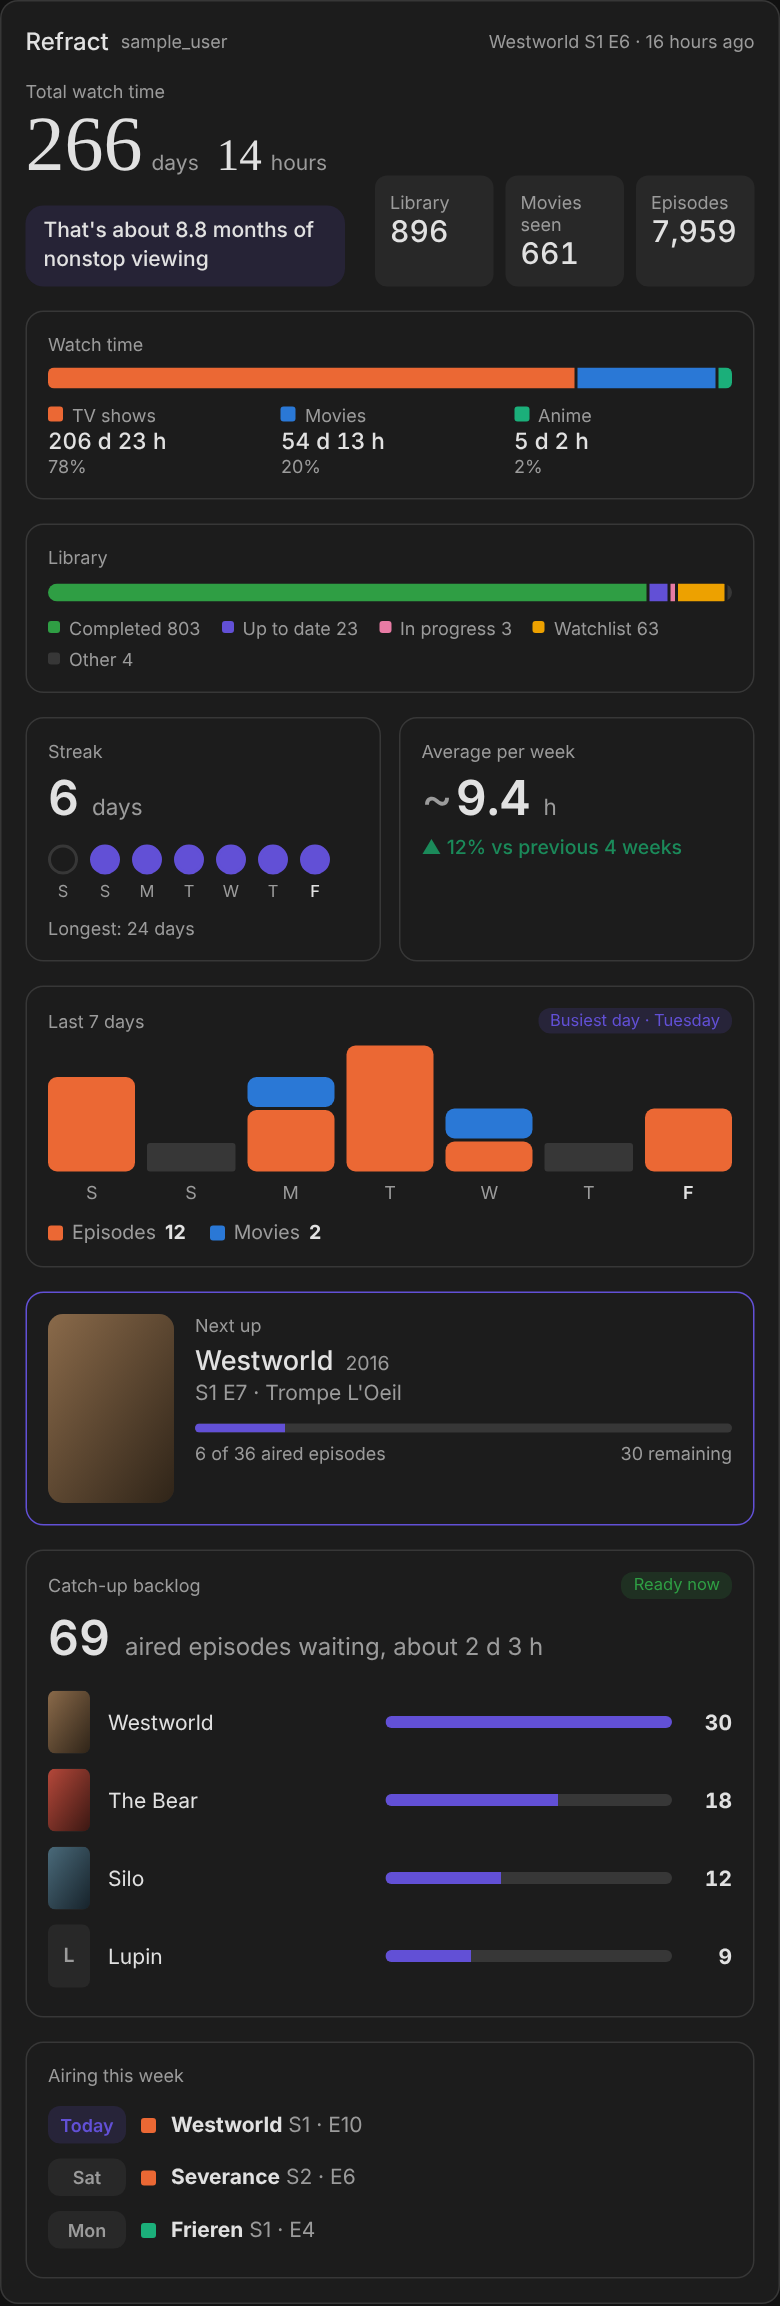
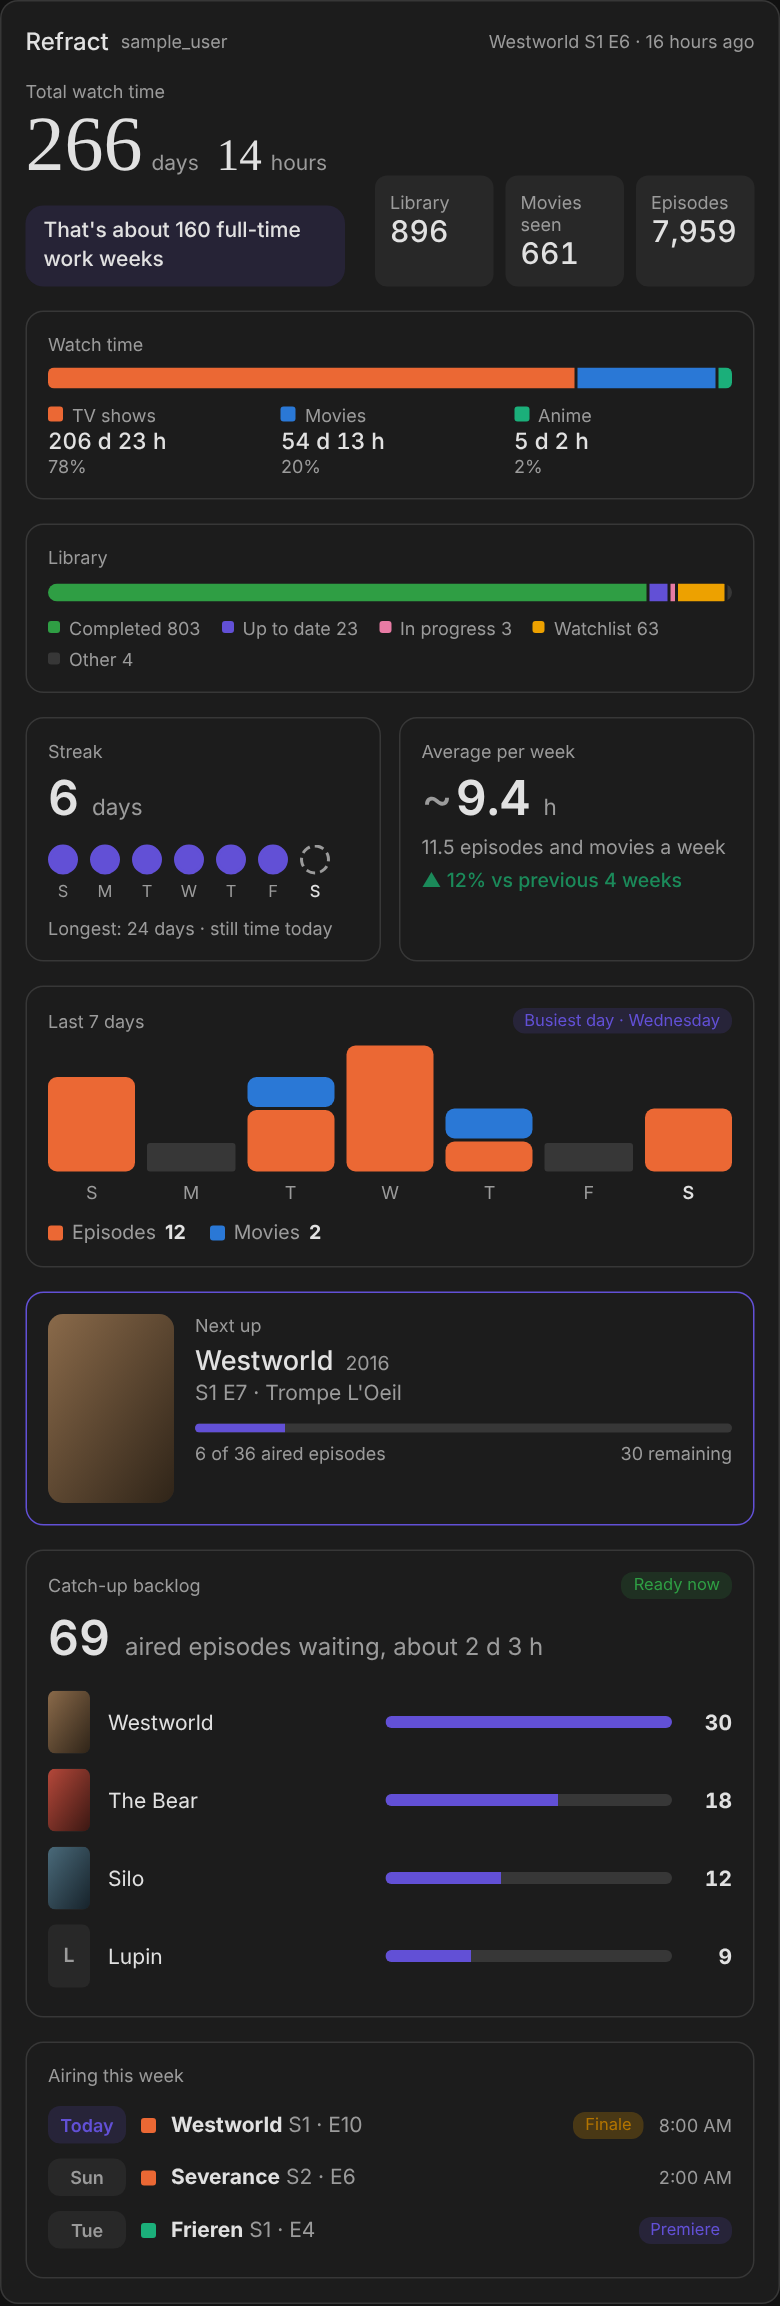
Add files via upload

diff --git a/frontend/test/card.test.ts b/frontend/test/card.test.ts
@@ -113,7 +113,26 @@ test("the old streak options are accepted and ignored", async () => {
 test("average per week shows an estimated figure and the trend", async () => {
   const t = text(await mount({}));
   assert.match(t, /Average per week ~2\.5 h/);
+  assert.match(t, /2\.8 episodes and movies a week/);
   assert.match(t, /▲ 12% vs previous 4 weeks/);
+});
+
+test("average per week says '1 episode or movie' for exactly one", async () => {
+  const hass = makeHass({
+    states: { ...baseStates, [`sensor.${PREFIX}average_per_week`]: { entity_id: "a", state: "0.9", attributes: { items_per_week: 1, change_percent: null, estimated: true } } },
+  });
+  const t = text(await mount({}, hass));
+  assert.match(t, /1 episode or movie a week/);
+  assert.doesNotMatch(t, /vs previous/, "no percentage without a fair baseline");
+});
+
+test("the catch-up estimate under a day shows hours only", async () => {
+  const hass = makeHass({
+    states: { ...baseStates, [`sensor.${PREFIX}catch_up`]: { entity_id: "c", state: "33", attributes: { show_count: 1, estimated_minutes: 1260, shows: [{ title: "Westworld", remaining: 33, is_anime: false }] } } },
+  });
+  const t = text(await mount({}, hass));
+  assert.match(t, /33 aired episodes waiting, about 21 h/);
+  assert.doesNotMatch(t, /0 d/);
 });
 
 test("average per week falls back to viewings when hours are unknown", async () => {
@@ -186,6 +205,10 @@ test("airing this week: weekday chips, today highlighted, anime colored", async 
   const rows = [...el.shadowRoot!.querySelectorAll(".a-row")];
   assert.equal(rows.length, 2);
   assert.match(rows[0].textContent!, /Today\s+Westworld S1 · E10/);
+  assert.match(rows[0].querySelector(".badge.warn")!.textContent!, /Finale/);
+  assert.match(rows[0].querySelector(".a-time")!.textContent!, /8:00/, "exact air time, in the user's clock format");
+  assert.match(rows[1].querySelector(".badge.accent")!.textContent!, /Premiere/);
+  assert.equal(rows[1].querySelector(".a-time"), null, "no time when Refract doesn't know it");
   assert.ok(rows[0].querySelector(".a-day.today"));
   assert.match(rows[1].textContent!, /Frieren S1 · E3/);
   assert.match(rows[1].querySelector<HTMLElement>(".swatch")!.getAttribute("style")!, /--c-anime/);

diff --git a/frontend/test/format.test.ts b/frontend/test/format.test.ts
@@ -1,6 +1,6 @@
 import assert from "node:assert/strict";
 import { test } from "node:test";
-import { durationParts, durationText, funStatText, shares, streakDots } from "../src/format";
+import { durationParts, durationText, funStatText, shares, streakDots, timeOfDay } from "../src/format";
 
 test("duration: 383,908 minutes is 266 d 14 h", () => {
   assert.equal(durationText(383908), "266 d 14 h");
@@ -17,7 +17,10 @@ test("duration: hours format and auto format", () => {
   assert.equal(durationText(298044, "hours"), "4,967 h");
   assert.equal(durationText(200, "auto"), "3 h 20 min");
   assert.equal(durationText(45, "auto"), "45 min");
-  assert.equal(durationText(200, "days_hours"), "0 d 3 h");
+  assert.equal(durationText(200, "days_hours"), "3 h", "no zero days");
+  assert.equal(durationText(1260, "days_hours"), "21 h");
+  assert.equal(durationText(45, "days_hours"), "45 min");
+  assert.equal(durationText(1440, "days_hours"), "1 d 0 h", "a whole day keeps both parts");
 });
 
 test("duration: singular units", () => {
@@ -83,4 +86,11 @@ test("streak dots: time zone decides which day a watch belongs to", () => {
   assert.equal(streakDots({ ...args, timeZone: "UTC" }).stillTimeToday, true);
   const nicosia = streakDots({ ...args, timeZone: "Asia/Nicosia" }); // 01:30 on Nov 4 local
   assert.equal(nicosia.todayFilled, true);
+});
+
+test("timeOfDay follows the time zone and the 12/24 hour choice", () => {
+  assert.equal(timeOfDay("2026-11-10T08:00:00.000Z", "en", "UTC", false), "08:00");
+  assert.equal(timeOfDay("2026-11-10T08:00:00.000Z", "en", "Asia/Nicosia", false), "10:00");
+  assert.match(timeOfDay("2026-11-10T08:00:00.000Z", "en", "UTC", true)!, /^8:00\s?AM$/);
+  assert.equal(timeOfDay("not a date", "en"), undefined);
 });

diff --git a/frontend/src/format.ts b/frontend/src/format.ts
@@ -53,7 +53,10 @@ export function durationParts(minutes: number, format: DurationFormat = "days_ho
     if (hours >= 1) return [part(hours, "h", lang), part(mins, "min", lang)];
     return [part(mins, "min", lang)];
   }
-  return [part(days, "d", lang), part(hours, "h", lang)];
+  // days + hours, but nothing is padded with a zero: "21 h" rather than "0 d 21 h"
+  if (days >= 1) return [part(days, "d", lang), part(hours, "h", lang)];
+  if (hours >= 1) return [part(hours, "h", lang)];
+  return [part(mins, "min", lang)];
 }
 
 /** Compact text such as "206 d 23 h". */
@@ -195,4 +198,15 @@ export function isoDay(date: Date, timeZone?: string): string {
 /** Weekday name of a plain `YYYY-MM-DD` date, in the user's language. */
 export function weekdayName(iso: string, lang: string, style: "narrow" | "short" | "long"): string {
   return new Intl.DateTimeFormat(lang, { weekday: style, timeZone: "UTC" }).format(new Date(`${iso}T00:00:00Z`));
+}
+
+/** Clock time of an instant, in the user's time zone and 12/24 h preference ("08:00" / "8:00 AM"). */
+export function timeOfDay(iso: string, lang: string, timeZone?: string, hour12?: boolean): string | undefined {
+  const date = new Date(iso);
+  if (Number.isNaN(date.getTime())) return undefined;
+  try {
+    return new Intl.DateTimeFormat(lang, { hour: "numeric", minute: "2-digit", timeZone, hour12 }).format(date);
+  } catch {
+    return undefined;
+  }
 }

diff --git a/frontend/demo/index.html b/frontend/demo/index.html
@@ -94,7 +94,7 @@
   const art = { Westworld: poster("#8a6a4a", "#2f2418"), "The Bear": poster("#b5483a", "#3a1712"), Silo: poster("#4a6a7a", "#16222a"), Lupin: null };
   const days7 = [[3, 0], [0, 0], [2, 1], [4, 0], [1, 1], [0, 0], [2, 0]].map(([ep, mv], i) => ({ date: day(i - 6), episodes: ep, movies: mv }));
   const backlog = [["Westworld", 30, 63247], ["The Bear", 18, 136315], ["Silo", 12, 125988], ["Lupin", 9, 96677]].map(([title, remaining, tmdb_id]) => ({ title, year: 2020, is_anime: false, remaining, tmdb_id, poster_url: null }));
-  const airing = [[0, "Westworld", 1, 10, false], [1, "Severance", 2, 6, false], [3, "Frieren", 1, 4, true]].map(([d, show, season, number, is_anime]) => ({ date: day(d), show, season, number, title: null, is_anime }));
+  const airing = [[0, "Westworld", 1, 10, false, false, true, "08:00"], [1, "Severance", 2, 6, false, false, false, "02:00"], [3, "Frieren", 1, 4, true, true, false, null]].map(([d, show, season, number, is_anime, premiere, finale, time]) => ({ date: day(d), show, season, number, title: null, is_anime, premiere, finale, air_at: time ? `${day(d)}T${time}:00.000Z` : null }));
   const withArt = (on) => ({
     next: on ? { ...westworld, poster_url: art.Westworld } : westworld,
     catchup: backlog.map((b) => ({ ...b, poster_url: on ? art[b.title] : null })),

diff --git a/frontend/src/model.ts b/frontend/src/model.ts
@@ -62,6 +62,10 @@ export interface AiringItem {
   number?: number;
   title?: string;
   isAnime: boolean;
+  premiere: boolean;
+  finale: boolean;
+  /** ISO instant, only when Refract knows the exact time. */
+  airAt?: string;
 }
 
 export interface Model {
@@ -239,7 +243,7 @@ export function buildModel(hass: HomeAssistant, discovery: Discovery, config: Re
     airing = raw
       .map((r: any): AiringItem | undefined =>
         typeof r?.show === "string" && /^\d{4}-\d{2}-\d{2}$/.test(String(r?.date))
-          ? { date: r.date, show: r.show, season: num(r.season), number: num(r.number), title: typeof r.title === "string" ? r.title : undefined, isAnime: !!r.is_anime }
+          ? { date: r.date, show: r.show, season: num(r.season), number: num(r.number), title: typeof r.title === "string" ? r.title : undefined, isAnime: !!r.is_anime, premiere: !!r.premiere, finale: !!r.finale, airAt: typeof r.air_at === "string" && r.air_at ? r.air_at : undefined }
           : undefined,
       )
       .filter((x): x is AiringItem => !!x);

diff --git a/frontend/test/fixture.ts b/frontend/test/fixture.ts
@@ -63,8 +63,8 @@ export const catchUpShows = [
 ];
 
 export const airingEpisodes = [
-  { date: dayOffset(0), show: "Westworld", season: 1, number: 10, title: "The Bicameral Mind", is_anime: false },
-  { date: dayOffset(2), show: "Frieren", season: 1, number: 3, title: null, is_anime: true },
+  { date: dayOffset(0), show: "Westworld", season: 1, number: 10, title: "The Bicameral Mind", is_anime: false, premiere: false, finale: true, air_at: `${dayOffset(0)}T08:00:00.000Z` },
+  { date: dayOffset(2), show: "Frieren", season: 1, number: 3, title: null, is_anime: true, premiere: true, finale: false, air_at: null },
 ];
 
 export const states: Record<string, HassEntity> = Object.fromEntries([

diff --git a/frontend/src/styles.ts b/frontend/src/styles.ts
@@ -177,6 +177,10 @@ export const cardStyles = css`
     color: var(--secondary-text-color);
     margin-right: 2px;
   }
+  .avg-items {
+    font-size: 13px;
+    color: var(--secondary-text-color);
+  }
   .trend {
     font-size: 13px;
     font-weight: 500;
@@ -590,7 +594,17 @@ export const cardStyles = css`
     background: color-mix(in srgb, var(--c-accent) 16%, transparent);
     color: var(--c-accent);
   }
+  .a-time {
+    flex: none;
+    font-size: 12px;
+    color: var(--secondary-text-color);
+    font-variant-numeric: tabular-nums;
+  }
+  .a-row .badge {
+    flex: none;
+  }
   .a-name {
+    flex: 1;
     min-width: 0;
     overflow: hidden;
     text-overflow: ellipsis;

diff --git a/frontend/test/discovery-model.test.ts b/frontend/test/discovery-model.test.ts
@@ -97,6 +97,9 @@ test("model: new sections", () => {
   assert.deepEqual(m.catchup?.shows.map((x) => [x.title, x.remaining]), [["Westworld", 30], ["Lupin", 9]]);
   assert.equal(m.airing?.length, 2);
   assert.equal(m.airing?.[1].isAnime, true);
+  assert.deepEqual([m.airing?.[0].finale, m.airing?.[0].premiere, m.airing?.[1].premiere], [true, false, true]);
+  assert.match(m.airing?.[0].airAt ?? "", /T08:00:00/);
+  assert.equal(m.airing?.[1].airAt, undefined);
   assert.equal(m.hasPosters, false);
 });
 

diff --git a/frontend/src/types.ts b/frontend/src/types.ts
@@ -25,7 +25,7 @@ export interface HomeAssistant {
   entities?: Record<string, EntityRegistryDisplayEntry>;
   devices?: Record<string, DeviceRegistryEntry>;
   services?: Record<string, Record<string, unknown>>;
-  locale?: { language: string; time_zone?: string };
+  locale?: { language: string; time_zone?: string; time_format?: string };
   config?: { time_zone?: string };
   language?: string;
   callService(

diff --git a/frontend/src/localize.ts b/frontend/src/localize.ts
@@ -47,6 +47,8 @@ const en: Dict = {
   "avg.vs_previous": "vs previous 4 weeks",
   "avg.estimated": "Estimated from your average runtime",
   "avg.items_unit": "a week",
+  "avg.items_line": "{n} episodes and movies a week",
+  "avg.items_line_one": "1 episode or movie a week",
   "days7.title": "Last 7 days",
   "days7.busiest": "Busiest day · {day}",
   "days7.episodes": "Episodes",

diff --git a/custom_components/refract/analytics.py b/custom_components/refract/analytics.py
@@ -102,6 +102,11 @@ def busiest_day(days: list[dict[str, Any]]) -> dict[str, Any] | None:
     return best
 
 
+# The change needs at least this many viewings in the earlier period, otherwise a quiet
+# stretch makes any normal month look like a huge jump.
+MIN_BASELINE_ITEMS = 4
+
+
 def weekly_stats(
     episodes: Iterable[tuple[date, int | None]],
     movies: Iterable[date],
@@ -113,7 +118,8 @@ def weekly_stats(
     """Viewings (and hours, when runtimes are known) per week over the last `window` days.
 
     Episodes use Refract's runtime when it has one, otherwise `episode_default`; movies
-    use `movie_default`. The change compares against the `window` days before that.
+    use `movie_default`. The change compares against the `window` days before that, and is
+    left out when that earlier period has fewer than MIN_BASELINE_ITEMS viewings.
     """
     eps, movs = list(episodes), list(movies)
 
@@ -143,12 +149,12 @@ def weekly_stats(
     minutes_now, minutes_before = minutes(now), minutes(before)
     weeks = window / 7
 
-    if minutes_now is not None and minutes_before:
-        change: int | None = round((minutes_now - minutes_before) / minutes_before * 100)
-    elif items_before:
-        change = round((items_now - items_before) / items_before * 100)
-    else:
-        change = None
+    change: int | None = None
+    if items_before >= MIN_BASELINE_ITEMS:
+        if minutes_now is not None and minutes_before:
+            change = round((minutes_now - minutes_before) / minutes_before * 100)
+        else:
+            change = round((items_now - items_before) / items_before * 100)
     return {
         "items_per_week": round(items_now / weeks, 1),
         "hours_per_week": round(minutes_now / 60 / weeks, 1) if minutes_now is not None else None,

diff --git a/tests/test_analytics.py b/tests/test_analytics.py
@@ -230,3 +230,13 @@ def test_upcoming_prefers_the_anime_flag_from_the_calendar():
     parsed = a.parse_calendar(REAL_CALENDAR)
     out = a.upcoming(parsed, date(2026, 11, 7), 7, anime_titles=set())
     assert [(e["show"], e["is_anime"]) for e in out] == [("VisionQuest", False), ("Frieren", True)]
+
+
+def test_change_needs_a_fair_baseline():
+    now = eps(*range(0, -14, -1))  # 14 viewings now
+    assert a.weekly_stats(now, [], TODAY)["change_percent"] is None
+    three = eps(-29, -30, -31)  # only 3 before: too few to compare against
+    assert a.weekly_stats(now + three, [], TODAY)["change_percent"] is None
+    four = eps(-29, -30, -31, -32)
+    assert a.weekly_stats(now + four, [], TODAY)["change_percent"] == 250
+    assert a.MIN_BASELINE_ITEMS == 4
